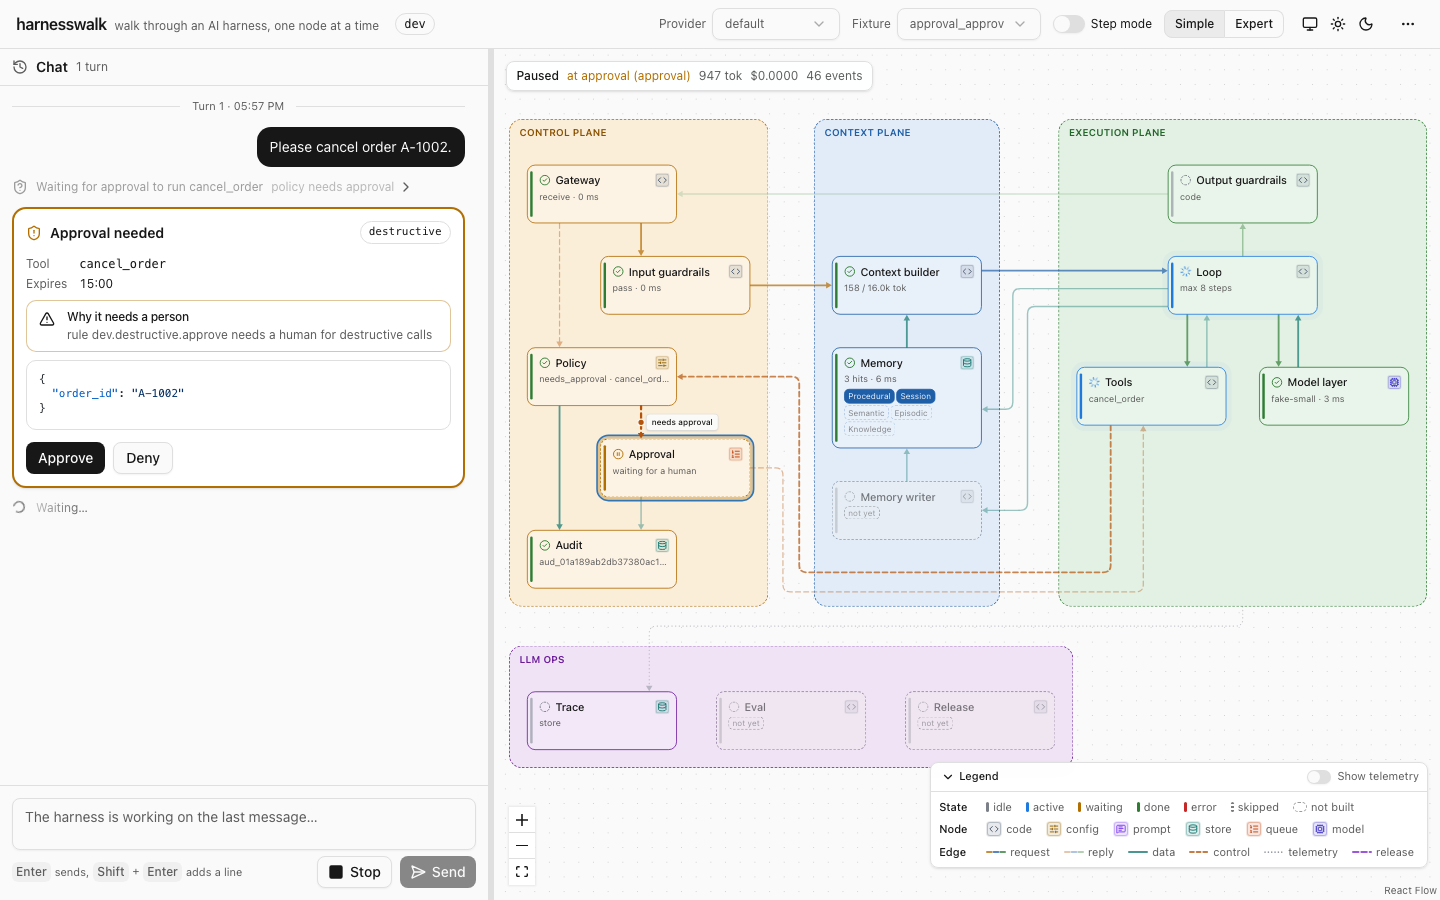
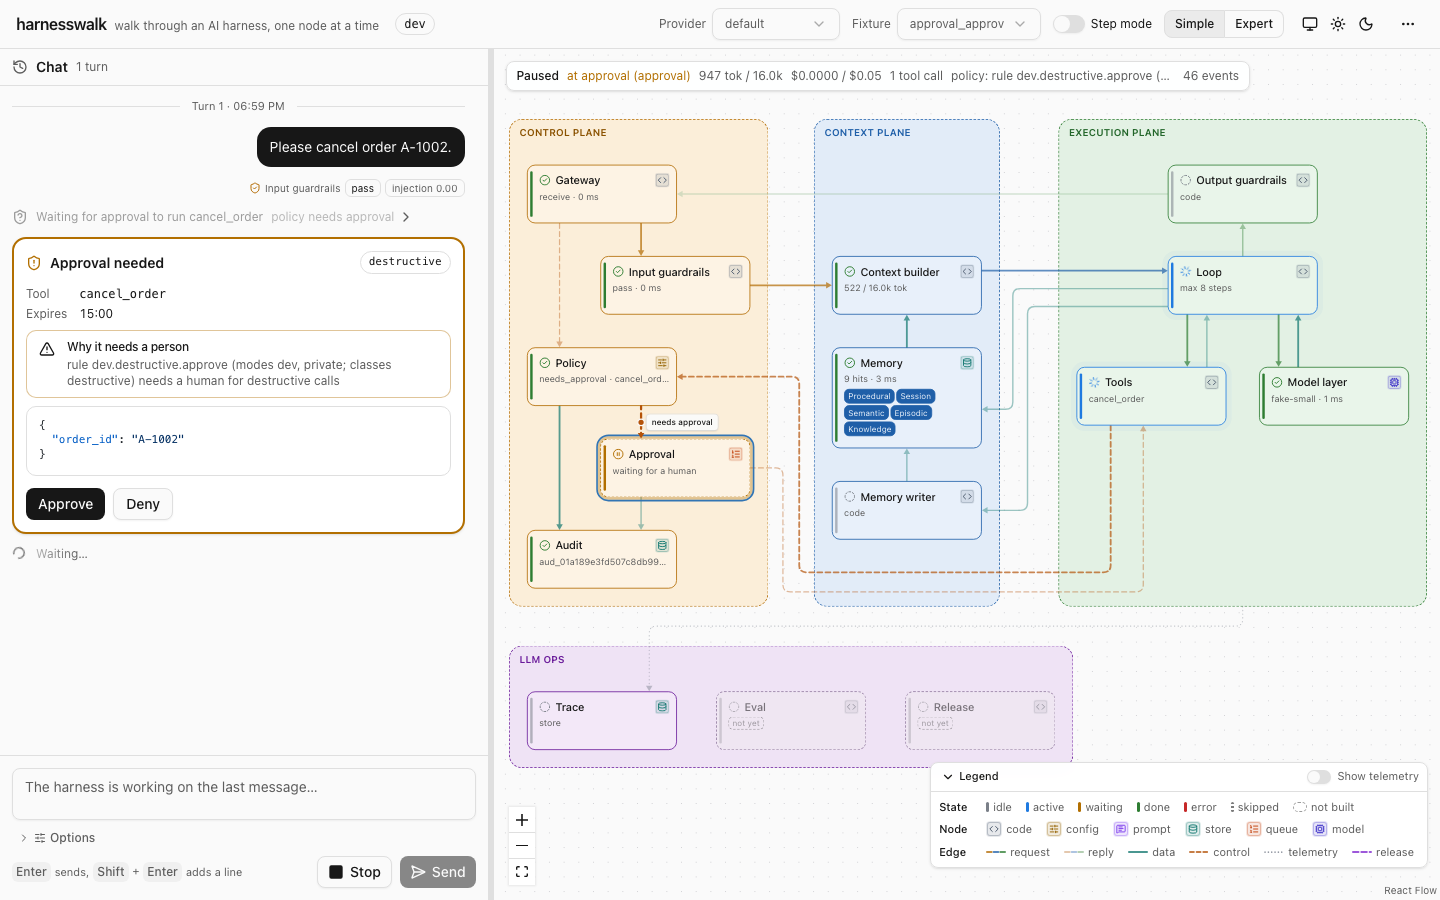
docs(screenshots): turn-done on the Trailhead question with all five stores lit, new citations.png

diff --git a/web/e2e-live/screenshots.spec.ts b/web/e2e-live/screenshots.spec.ts
@@ -33,10 +33,19 @@ async function settle(page: Page) {
 }
 
 test('a finished turn', async ({ page, browser }) => {
-  await turn(page, 'tool_call', 'Where is order A-1001?')
+  // The Trailhead question: all five memory badges lit, and a reply that cites knowledge.
+  await turn(page, 'trailhead_return', 'Can I return order A-1003, the Trailhead backpack?')
   await expect(page.getByTestId('turn-status')).toHaveAttribute('data-phase', 'done')
+  await expect(page.getByTestId('badge-knowledge')).toHaveAttribute('data-lit', 'true')
   await settle(page)
   await page.screenshot({ path: out('turn-done') })
+
+  // citations.png: a citation chip opened the document reader at the cited chunk.
+  await page.getByTestId('citation-chip').first().click()
+  await expect(page.getByTestId('doc-reader').locator('[data-cited="true"]')).toBeVisible()
+  await page.waitForTimeout(400)
+  await page.screenshot({ path: out('citations') })
+  await page.keyboard.press('Escape')
 
   // edges-before-after.png: the owner's screenshot of the old routing (edges-before.png, kept in
   // the repo) beside the same diagram now, at twice the pixel density for a fair comparison.
